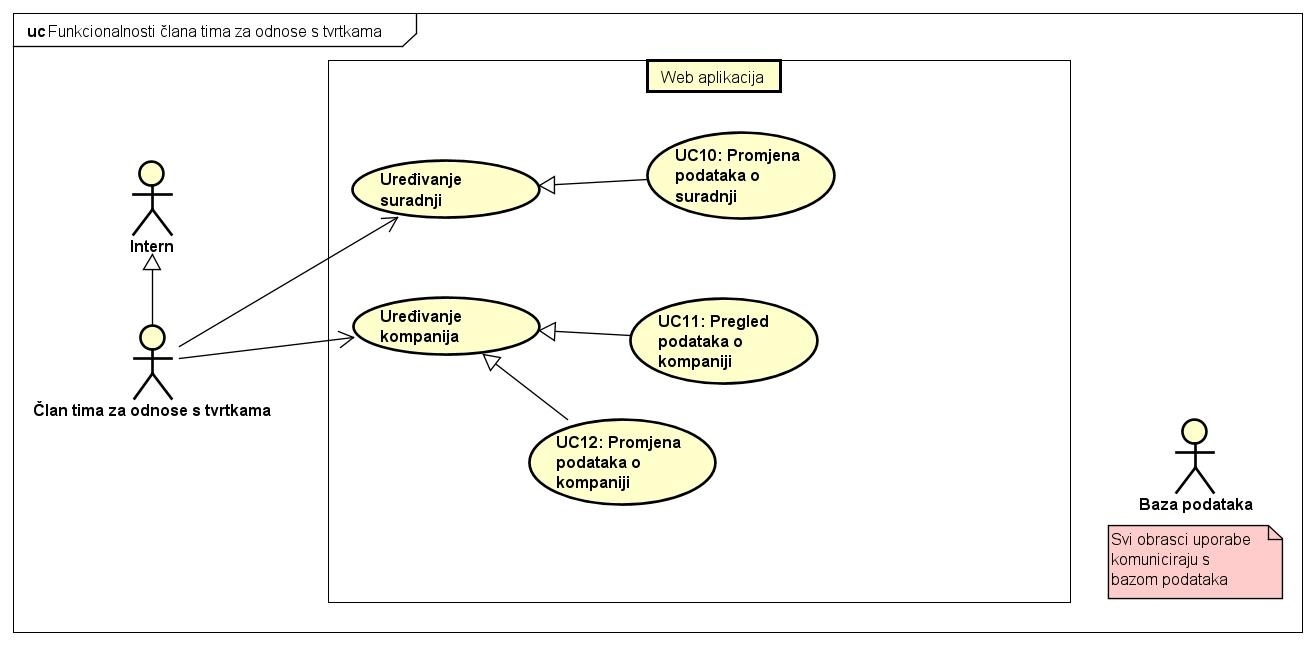
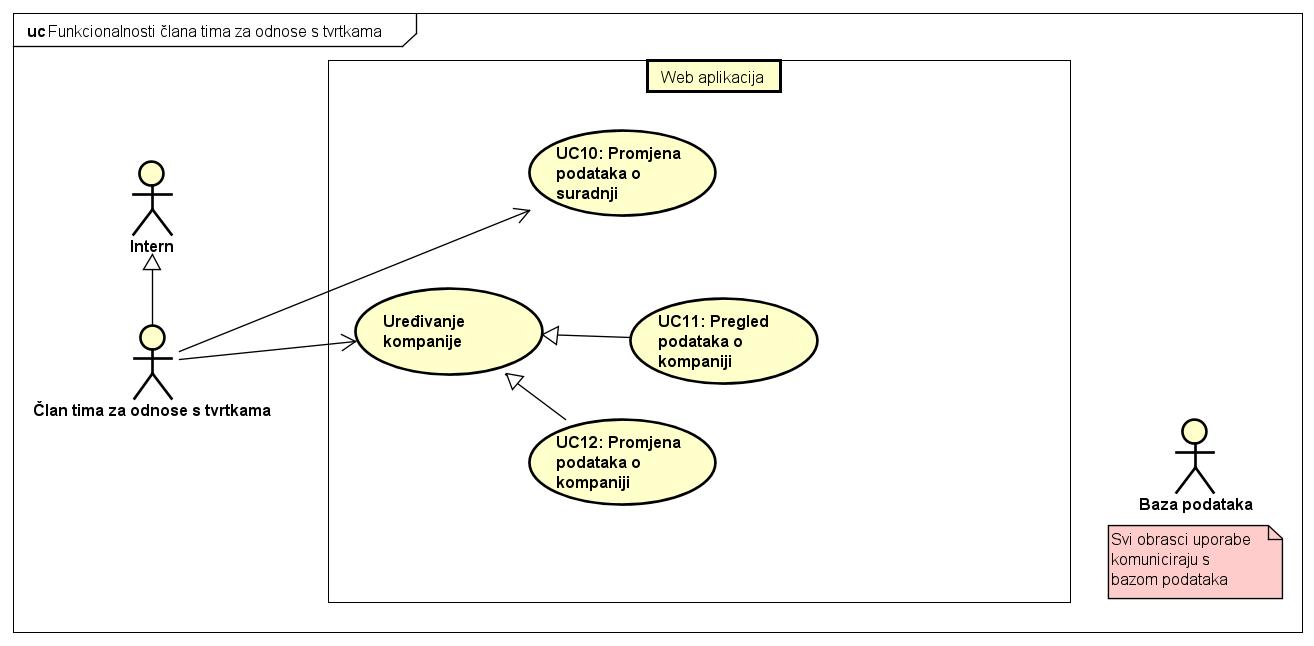
Nadodano stvaranje i brisanje kompanija u funkcionalnu specifikaciju, obrasce uporabe i dijagrame obrazaca uporabe

diff --git a/Specifikacija_programske_potpore.tex b/Specifikacija_programske_potpore.tex
@@ -4,12 +4,12 @@
 	\section{Funkcionalni zahtjevi}
 			
 			\textbf{\textit{dio 1. revizije}}\\
-			
+
 			\textit{Navesti \textbf{dionike} koji imaju \textbf{interes u ovom sustavu} ili \textbf{su nositelji odgovornosti}. To su prije svega korisnici, ali i administratori sustava, naručitelji, razvojni tim.}\\
-				
+
 			\textit{Navesti \textbf{aktore} koji izravno \textbf{koriste} ili \textbf{komuniciraju sa sustavom}. Oni mogu imati inicijatorsku ulogu, tj. započinju određene procese u sustavu ili samo sudioničku ulogu, tj. obavljaju određeni posao. Za svakog aktora navesti funkcionalne zahtjeve koji se na njega odnose.}\\
-			
-			
+
+
 			\noindent \textbf{Dionici:}
 			
 			\begin{packed_enum}
@@ -81,6 +81,7 @@
 					\item Promijeniti podatke o suradnji (kategorija, status, sažetak, vrijednost)
 					\item Pregledavati i promijeniti sve podatke za dodijeljenu kompaniju
 					\item Strvoriti i obrisati suradnju
+					\item Stvoriti i obrisati vlastito stvorene kompanije
 					\item Pregledati korisnike
 					\item Pregledati podatke o korisniku
 
@@ -97,7 +98,7 @@
 					\item Promijeniti podatke o suradnji (kategorija, status, sažetak, vrijednost)
 					\item Pregledavati i promijeniti sve podatke za dodijeljenu kompaniju
 					\item Strvoriti i obrisati suradnju
-					\item Stvoriti i obrisati kategoriju projekata
+					\item Stvoriti i obrisati kompanije
 					\item Stvoriti i obrisati vlastito stvorene projekte
 					\item Dodijeliti i maknuti nekom korisniku mogućnosti organizatora projekta na projektu koji je stvorio
 					\item Staviti i maknuti nekog korisnika s rolom člana neprofitabilne kompanije na projekt koji je stvorio
@@ -117,8 +118,8 @@
 					\item Promijeniti podatke o suradnji (kategorija, status, sažetak, vrijednost)
 					\item Pregledavati i promijeniti sve podatke za dodijeljenu kompaniju
 					\item Strvoriti i obrisati suradnju
-					\item Stvoriti i obrisati kategoriju projekata
 					\item Stvoriti i obrisati projekte
+					\item Stvoriti i obrisati kompanije
 					\item Dodijeliti nekom korisniku mogućnosti organizatora projekta na projektu koji je stvorio
 					\item Staviti nekog korisnika s rolom člana neprofitabilne kompanije na projekt koji je stvorio
 					\item Pregledati korisnike
@@ -199,7 +200,7 @@
 						\item \textbf{Glavni sudionik:} Neprijavljeni korisnik
 						\item \textbf{Cilj:} Dati korisniku pristup aplikaciji
 						\item \textbf{Sudionici:} Baza podataka
-						\item \textbf{Preduvjet:} Registracija
+						\item \textbf{Preduvjet:} Korisnik je registriran
 						\item \textbf{Opis osnovnog tijeka:}
 						
 						\item[] \begin{packed_enum}
@@ -214,15 +215,7 @@
 
 						\item[] \begin{packed_item}
 
-							\item[2.a] Prijavom s ne- google računom
-							\item[] \begin{packed_enum}
-
-								\item Aplikacija obavještava korisnika o neuspjeloj prijavi
-								\item Korisnik se ponovo prijavljuje s drugim računom ili odustaje od prijave
-
-							\end{packed_enum}
-
-							\item[2.b] Prijavom s računom koji nije u bazi
+							\item[2.a] Prijavom s računom koji nije u bazi
 							\item[] \begin{packed_enum}
 
 								\item Aplikacija obavještava korisnika o neuspjeloj prijavi
@@ -240,7 +233,7 @@
 						\item \textbf{Glavni sudionik:} Administrator
 						\item \textbf{Cilj:} Stvoriti korisnički račun za pristup aplikaciji
 						\item \textbf{Sudionici:} Baza podataka
-						\item \textbf{Preduvjet:} - 
+						\item \textbf{Preduvjet:} Korisnik je prijavljen
 						\item \textbf{Opis osnovnog tijeka:}
 
 						\item[] \begin{packed_enum}
@@ -317,7 +310,7 @@
 						\item[] \begin{packed_enum}
 
 							\item Korisnik odabire opciju "Projects"
-							\item Aplikacija prikazuje popis naziva projekata
+							\item Aplikacija prikazuje popis projekata
 							\item Korisnik klikne na naziv projekta o kojem želi informacije
 							\item Prikažu se detalji projekta
 						\end{packed_enum}
@@ -392,7 +385,7 @@
 						\item[] \begin{packed_enum}
 
 							\item Korisnik odabire opciju "Projects"
-							\item Aplikacija prikazuje popis naziva projekata
+							\item Aplikacija prikazuje popis projekata
 							\item Korisnik klikne na ime projekta u kojem se nalazi suradnja koja ga zanima
 							\item Aplikacija prikazuje popis suradnji vezanih uz taj projekt sa osnovnim podacima (naziv kompanije, odgovoru osobu, status, kategoriju, kontakt, dio komentara, akcije)
 						\end{packed_enum}
@@ -411,7 +404,7 @@
 						\item[] \begin{packed_enum}
 
 							\item Korisnik odabire opciju "Projects"
-							\item Aplikacija prikazuje popis naziva projekata
+							\item Aplikacija prikazuje popis projekata
 							\item Korisnik klikne na ime projekta u kojem se nalazi suradnja koja ga zanima
 							\item Aplikacija prikazuje popis suradnji vezanih uz taj projekt sa osnovnim podacima (naziv kompanije, odgovoru osobu, status, kategoriju, kontakt, dio komentara, akcije)
 							\item Korisnik odabire opciju "Edit"
@@ -427,7 +420,7 @@
 
 						\item[] \begin{packed_item}
 
-							\item[1.9.b, 2.7.b] Korisnik promijeni podatke o suradnji na nevažeće vrijednosti
+							\item[7.a] Korisnik promijeni podatke o suradnji na nevažeće vrijednosti
 							i odabere opciju "Save"
 							
 							\item[] \begin{packed_enum}
@@ -512,8 +505,8 @@
 						\item[] \begin{packed_enum}
 
 							\item Korisnik odabire opciju "Projects"
-							\item Aplikacija prikazuje popis naziva projekata
-							\item Korisnik klikne na ime projekta u kojem se nalazi suradnja koja ga zanima
+							\item Aplikacija prikazuje popis projekata
+							\item Korisnik klikne na ime projekta u kojem želi stvoriti suradnju
 							\item Aplikacija prikazuje popis suradnji vezanih uz taj projekt sa osnovnim podacima (naziv kompanije, odgovoru osobu, status, kategoriju, kontakt, dio komentara, akcije)
 							\item Korisnik odabere opciju "New collaboration"
 							\item Aplikacija prikaže formu za stvaranje nove suradnje
@@ -552,6 +545,7 @@
 						\item[] \begin{packed_enum}
 
 							\item Korisnik odabire opciju "Projects"
+							\item Aplikacija prikazuje popis projekata
 							\item Korisnik klikne na ime projekta u kojem se nalazi suradnja koja ga zanima
 							\item Aplikacija prikazuje popis suradnji vezanih uz taj projekt sa osnovnim podacima (naziv kompanije, odgovoru osobu, status, kategoriju, kontakt, dio komentara, akcije)
                             \item Korisnik odabere opciju za brisanje suradnje
@@ -569,11 +563,13 @@
 						\item \textbf{Glavni sudionik:} Osoba odgovorna za odnose s tvrtkama
 						\item \textbf{Cilj:} Stvoriti projekt
 						\item \textbf{Sudionici:} Baza podataka
-						\item \textbf{Preduvjet:} Korisnik je prijavljen, Korisnik ima ovlasti moderator
+						\item \textbf{Preduvjet:} Korisnik je prijavljen
 						\item \textbf{Opis osnovnog tijeka:}
 
 						\item[] \begin{packed_enum}
 
+							\item Korisnik odabire opciju "Projects"
+							\item Aplikacija prikazuje popis projekata
 							\item Korisnik odabire opciju "Create project"
 							\item Aplikacija prikazuje formu za stvaranje novog projekta
 							\item Korisnik popuni podatke za stvaranje novog projekta
@@ -591,7 +587,7 @@
 
 								\item Aplikacija obavještava korisnika o neuspjelom upisu
 								\item Korisnik mijenja potrebne podatke te uspješno završava unos ili
-								odustaje od dodavanja suradnje
+								odustaje od dodavanja projekta
 
 							\end{packed_enum}
 
@@ -604,12 +600,13 @@
 						\item \textbf{Glavni sudionik:} Osoba odgovorna za odnose s tvrtkama
 						\item \textbf{Cilj:} Izbrisati projekt
 						\item \textbf{Sudionici:} Baza podataka
-						\item \textbf{Preduvjet:} Korisnik je prijavljen, Korisnik ima ovlasti administrator
+						\item \textbf{Preduvjet:} Korisnik je prijavljen
 						\item \textbf{Opis osnovnog tijeka:}
 					
 						\item[] \begin{packed_enum}
 
 							\item Korisnik odabire opciju "Projects"
+							\item Aplikacija prikazuje popis projekata
 							\item Korisnik odabire neki od projekata
 							\item Aplikacija prikazuje detalje o tom projektu
 							\item Korisnik odabire opciju za brisanje projekta
@@ -621,13 +618,13 @@
 					
 					\end{packed_item}
 
-						\noindent \underbar{\textbf{UC17 - Dodavanje korisnika na projekt}}
+					\noindent \underbar{\textbf{UC17 - Dodavanje korisnika na projekt}}
 					\begin{packed_item}
 
 						\item \textbf{Glavni sudionik:} Osoba odgovorna za odnose s tvrtkama
 						\item \textbf{Cilj:} Dodati člana neprofitabilne organizacije na projekt
 						\item \textbf{Sudionici:} Baza podataka
-						\item \textbf{Preduvjet:} Korisnik je prijavljen, Korisnik ima ovlasti administrator
+						\item \textbf{Preduvjet:} Korisnik je prijavljen
 						\item \textbf{Opis osnovnog tijeka:}
 					
 						\item[] \begin{packed_enum}
@@ -648,12 +645,12 @@
 					
 						\item[] \begin{packed_item}
                         
-                        	\item[7.b] Korisnik unese nevaljane podatke o korisniku i odabere opciju "Save"
+                        	\item[7.b] Korisnik unese nevaljane podatke o korisniku i odabere opciju "Add"
 							\item[] \begin{packed_enum}
 
 								\item Aplikacija obavještava korisnika o neuspjelom upisu
 								\item Korisnik mijenja potrebne podatke te uspješno završava unos ili
-								odustaje od dodavanja suradnje
+								odustaje od dodavanja korisnika na projekt
 
 							\end{packed_enum}
 					
@@ -793,6 +790,69 @@
 							\item Aplikacija ažurira popis korisnika tako da prikazuje samo korisnike koji imaju taj tekst u imenu, prezimenu, nadimku ili emailu
 						\end{packed_enum}
 					\end{packed_item}
+
+					\noindent \underbar{\textbf{UC23 - Stvaranje kompanije}}
+					\begin{packed_item}
+
+						\item \textbf{Glavni sudionik:} Osoba odgovorna za odnose s tvrtkama na projektu
+						\item \textbf{Cilj:} Stvoriti kompaniju
+						\item \textbf{Sudionici:} Baza podataka
+						\item \textbf{Preduvjet:} Korisnik je prijavljen
+						\item \textbf{Opis osnovnog tijeka:}
+
+						\item[] \begin{packed_enum}
+
+							\item Korisnik odabire opciju "Companies"
+							\item Aplikacija prikazuje popis kompanija
+							\item Korisnik odabire opciju "Create company"
+							\item Aplikacija prikazuje formu za stvaranje nove kompanije
+							\item Korisnik popuni podatke za stvaranje nove kompanije
+							\item Korisnik sprema promjene
+							\item Baza podataka se ažurira
+							\item Aplikacija ažurira popis kompanija
+
+						\end{packed_enum}
+
+						\item \textbf{Opis mogućih odstupanja:}
+
+						\item[] \begin{packed_item}
+
+							\item[7.b] Korisnik unese nevaljane podatke o kompaniji i odabere opciju "Save"
+							\item[] \begin{packed_enum}
+
+								\item Aplikacija obavještava korisnika o neuspjelom upisu
+								\item Korisnik mijenja potrebne podatke te uspješno završava unos ili
+								odustaje od dodavanja kompanije
+
+							\end{packed_enum}
+
+						\end{packed_item}
+					\end{packed_item}
+
+					\noindent \underbar{\textbf{UC24 - Brisanje kompanije}}
+					\begin{packed_item}
+
+						\item \textbf{Glavni sudionik:} Osoba odgovorna za odnose s tvrtkama na projektu
+						\item \textbf{Cilj:} Izbrisati kompaniju
+						\item \textbf{Sudionici:} Baza podataka
+						\item \textbf{Preduvjet:} Korisnik je prijavljen
+						\item \textbf{Opis osnovnog tijeka:}
+
+						\item[] \begin{packed_enum}
+
+							\item Korisnik odabire opciju "Companies"
+							\item Aplikacija prikazuje popis kompanija
+							\item Korisnik odabire gumb za detalje pored neke od kompanija
+							\item Aplikacija prikazuje detalje o toj kompaniji
+							\item Korisnik odabire opciju za brisanje kompanije
+							\item Aplikacija prikaže modal koji pita korisnika je li siguran
+							\item Korisnik odabere opciju da je siguran
+							\item Baza podataka se ažurira
+							\item Aplikacija ažurira popis projekata
+
+						\end{packed_enum}
+
+					\end{packed_item}
 					
 				\subsubsection{Dijagrami obrazaca uporabe}
 
@@ -825,8 +885,8 @@
 		\section{Ostali zahtjevi}
 		
 			\textbf{\textit{dio 1. revizije}}\\
-		 
-			 \textit{Nefunkcionalni zahtjevi i zahtjevi domene primjene dopunjuju funkcionalne zahtjeve. Oni opisuju \textbf{kako se sustav treba ponašati} i koja \textbf{ograničenja} treba poštivati (performanse, korisničko iskustvo, pouzdanost, standardi kvalitete, sigurnost...). Primjeri takvih zahtjeva u Vašem projektu mogu biti: podržani jezici korisničkog sučelja, vrijeme odziva, najveći mogući podržani broj korisnika, podržane web/mobilne platforme, razina zaštite (protokoli komunikacije, kriptiranje...)... Svaki takav zahtjev potrebno je navesti u jednoj ili dvije rečenice.}
+
+			 \textit{Nefunkcionalni zahtjevi i zahtjevi domene primjene dopunjuju funkcionalne zahtjeve. Oni opisuju \textbf{kako se sustav treba ponašati} i koja \textbf{ograničenja} treba poštivati (performanse, korisničko iskustvo, pouzdanost, standardi kvalitete, sigurnost...). Primjeri takvih zahtjeva u Vašem projektu mogu biti: podržani jezici korisničkog sučelja, vrijeme odziva, najveći mogući podržani broj korisnika, podržane web/mobilne platforme, razina zaštite (protokoli komunikacije, kriptiranje...)... Svaki takav zahtjev potrebno je navesti u jednoj ili dvije rečenice.}\\
 
 			\begin{packed_item}
 
